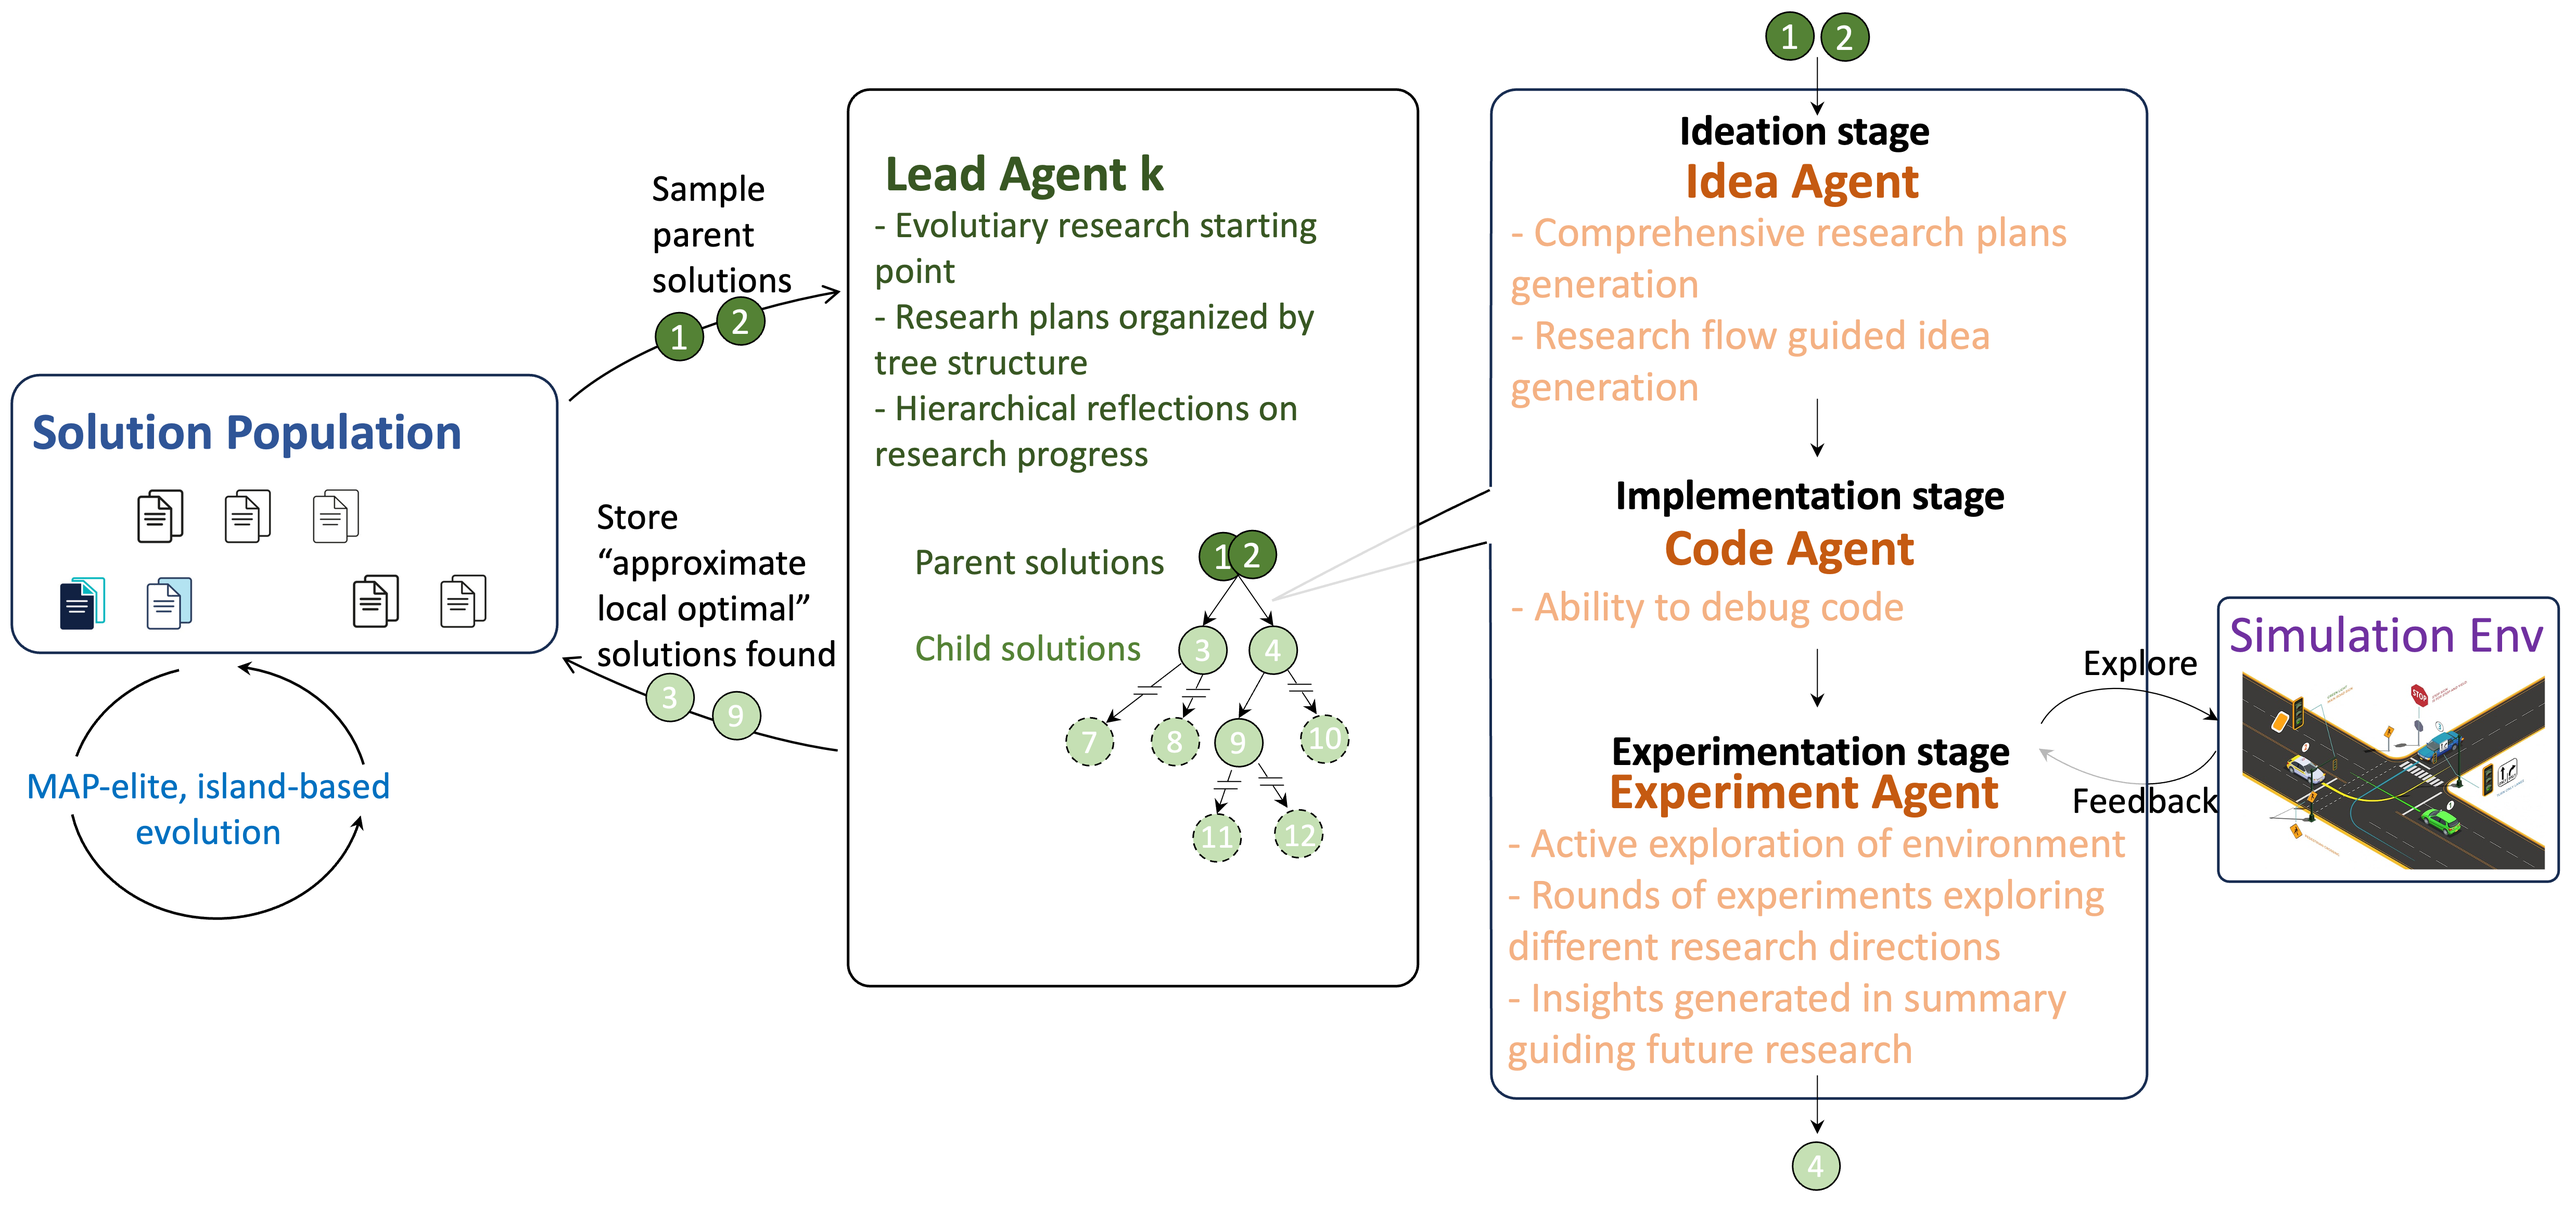
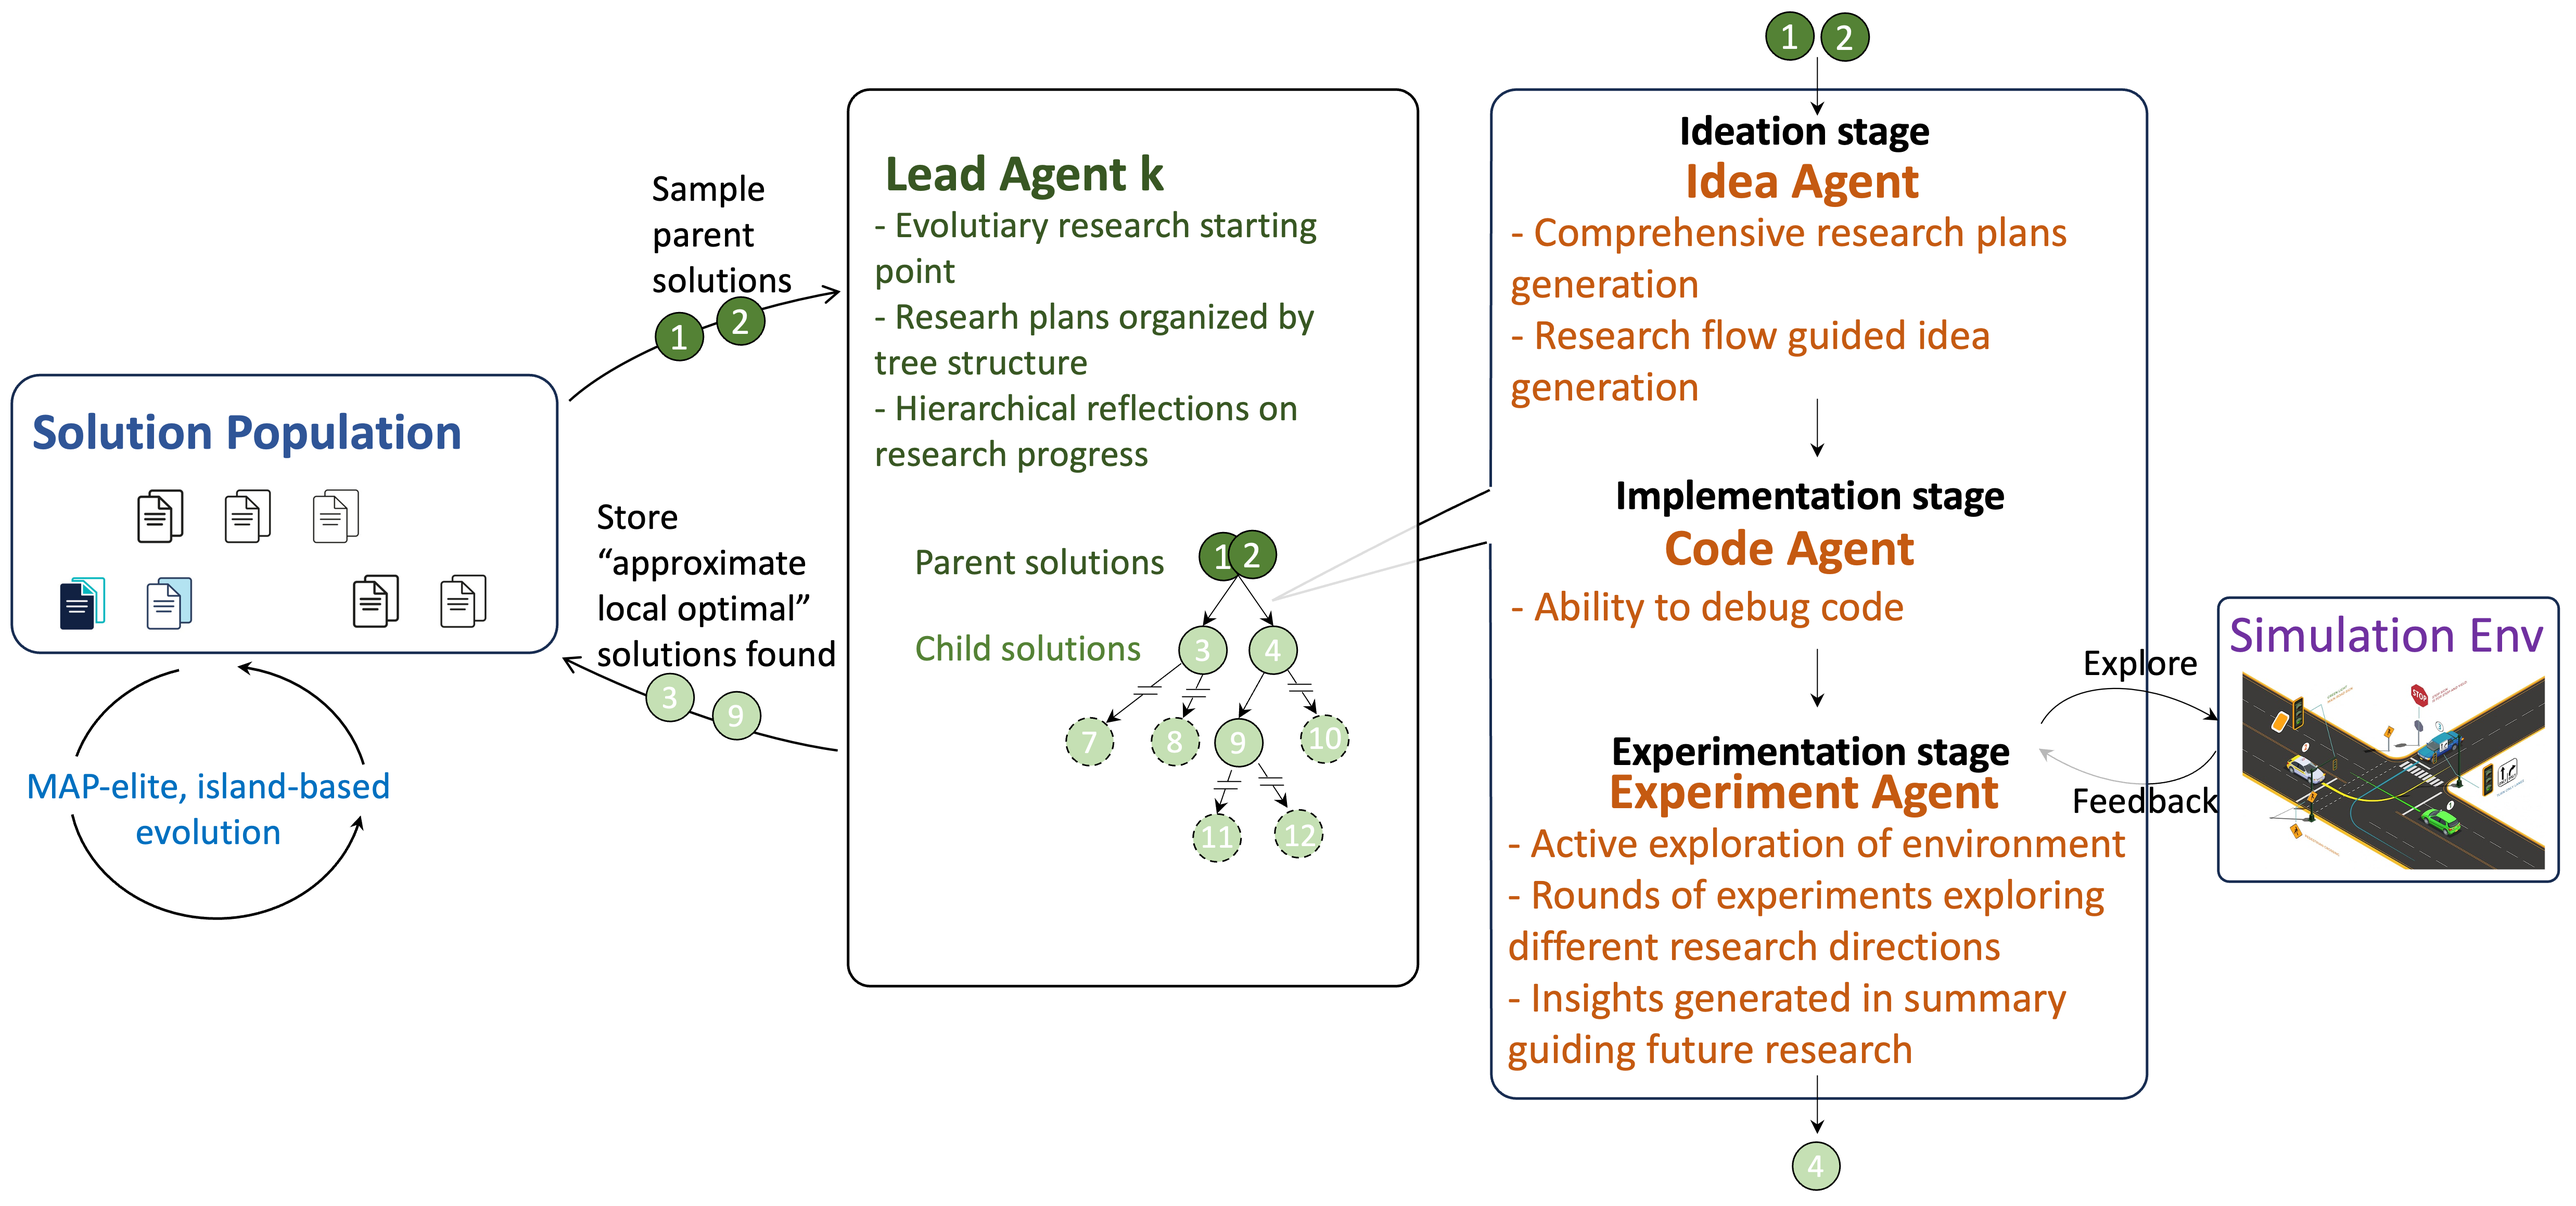
update readme

Changed region(s): [[0.5911, 0.6831, 0.84, 0.9004], [0.5911, 0.1863, 0.8089, 0.3415], [0.5911, 0.4968, 0.7467, 0.5278]]

diff --git a/README.md b/README.md
@@ -27,13 +27,8 @@ The OR-Agent framework is illustrated below:
 
 
 
-### Contributors
-Qi Liu, Wanjing Ma
-
-MAGIC Lab, College of Transportation, Tongji University
-
 ### How to cite
-> Liu, Q., and Ma, W., 2026. [TBD]
+> [TBD]
 
 
 ## How It Works
